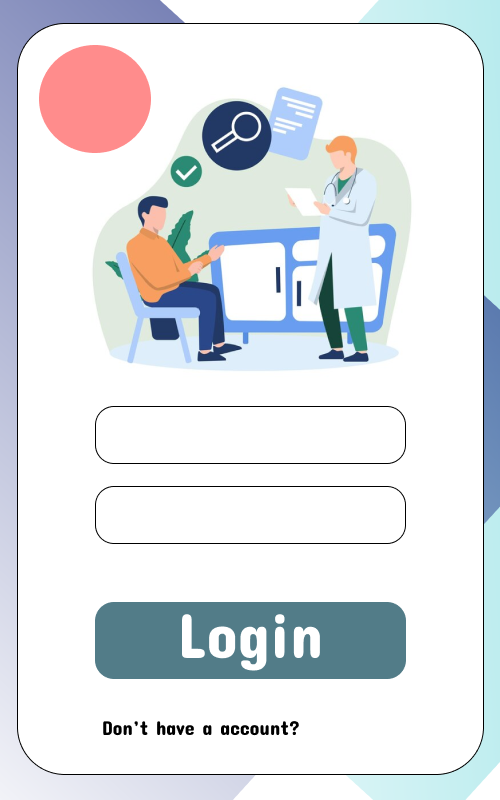
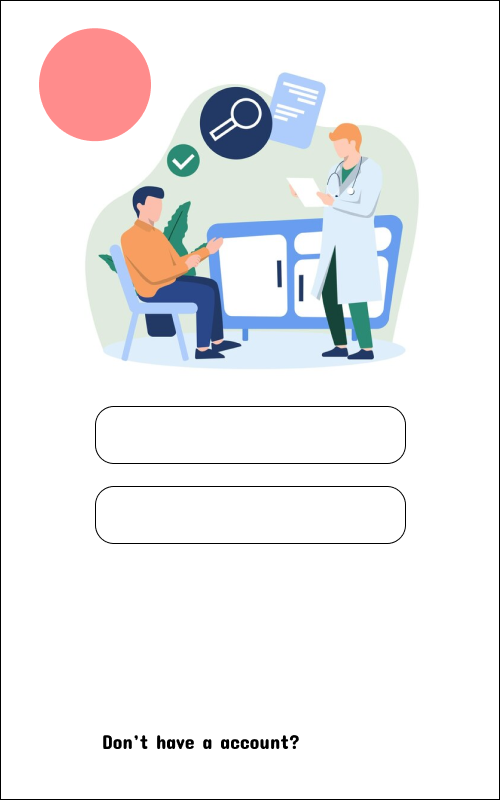
modified GUI

diff --git a/sistem-kessehatan-digital/src/main/java/com/neverlands/siskesdig/programs/Graphic/LoginForm.java b/sistem-kessehatan-digital/src/main/java/com/neverlands/siskesdig/programs/Graphic/LoginForm.java
@@ -38,14 +38,32 @@ public class LoginForm extends javax.swing.JFrame {
     // <editor-fold defaultstate="collapsed" desc="Generated Code">//GEN-BEGIN:initComponents
     private void initComponents() {
 
+        jPanel1 = new javax.swing.JPanel();
         inputUsername = new javax.swing.JTextField();
         inputPassword = new javax.swing.JTextField();
         Login = new javax.swing.JButton();
         jLabel1 = new javax.swing.JLabel();
         jLabel2 = new javax.swing.JLabel();
+        jLabel3 = new javax.swing.JLabel();
 
+        setResizable(false);
         setDefaultCloseOperation(javax.swing.WindowConstants.EXIT_ON_CLOSE);
         getContentPane().setLayout(new org.netbeans.lib.awtextra.AbsoluteLayout());
+
+        jPanel1.setBackground(new java.awt.Color(153, 153, 153, 40));
+
+        javax.swing.GroupLayout jPanel1Layout = new javax.swing.GroupLayout(jPanel1);
+        jPanel1.setLayout(jPanel1Layout);
+        jPanel1Layout.setHorizontalGroup(
+            jPanel1Layout.createParallelGroup(javax.swing.GroupLayout.Alignment.LEADING)
+            .addGap(0, 500, Short.MAX_VALUE)
+        );
+        jPanel1Layout.setVerticalGroup(
+            jPanel1Layout.createParallelGroup(javax.swing.GroupLayout.Alignment.LEADING)
+            .addGap(0, 800, Short.MAX_VALUE)
+        );
+
+        getContentPane().add(jPanel1, new org.netbeans.lib.awtextra.AbsoluteConstraints(0, 0, 500, 800));
 
         inputUsername.setBackground(new java.awt.Color(255, 255, 255));
         inputUsername.setFont(new java.awt.Font("Concert One", 0, 35)); // NOI18N
@@ -69,7 +87,7 @@ public class LoginForm extends javax.swing.JFrame {
                 inputUsernameActionPerformed(evt);
             }
         });
-        getContentPane().add(inputUsername, new org.netbeans.lib.awtextra.AbsoluteConstraints(110, 410, 280, 50));
+        getContentPane().add(inputUsername, new org.netbeans.lib.awtextra.AbsoluteConstraints(120, 410, 270, 40));
 
         inputPassword.setBackground(new java.awt.Color(255, 255, 255));
         inputPassword.setFont(new java.awt.Font("Concert One", 0, 35)); // NOI18N
@@ -96,6 +114,7 @@ public class LoginForm extends javax.swing.JFrame {
         Login.setBackground(new java.awt.Color(255, 255, 255));
         Login.setIcon(new javax.swing.ImageIcon(getClass().getResource("/com/neverlands/siskesdig/bin/Loginbttn.png"))); // NOI18N
         Login.setBorder(null);
+        Login.setBorderPainted(false);
         Login.addActionListener(new java.awt.event.ActionListener() {
             public void actionPerformed(java.awt.event.ActionEvent evt) {
                 try {
@@ -106,7 +125,7 @@ public class LoginForm extends javax.swing.JFrame {
                 }
             }
         });
-        getContentPane().add(Login, new org.netbeans.lib.awtextra.AbsoluteConstraints(100, 610, 300, 60));
+        getContentPane().add(Login, new org.netbeans.lib.awtextra.AbsoluteConstraints(110, 600, 280, 60));
 
         jLabel1.setIcon(new javax.swing.ImageIcon(getClass().getResource("/com/neverlands/siskesdig/bin/create_one.png"))); // NOI18N
         jLabel1.addMouseListener(new java.awt.event.MouseAdapter() {
@@ -114,11 +133,14 @@ public class LoginForm extends javax.swing.JFrame {
                 jLabel1MouseClicked(evt);
             }
         });
-        getContentPane().add(jLabel1, new org.netbeans.lib.awtextra.AbsoluteConstraints(310, 720, -1, -1));
+        getContentPane().add(jLabel1, new org.netbeans.lib.awtextra.AbsoluteConstraints(310, 710, -1, 60));
 
         jLabel2.setIcon(new javax.swing.ImageIcon(getClass().getResource("/com/neverlands/siskesdig/bin/Login.png"))); // NOI18N
         jLabel2.setText("jLabel2");
         getContentPane().add(jLabel2, new org.netbeans.lib.awtextra.AbsoluteConstraints(0, 0, 500, 800));
+
+        jLabel3.setText("jLabel3");
+        getContentPane().add(jLabel3, new org.netbeans.lib.awtextra.AbsoluteConstraints(0, 170, -1, -1));
 
         pack();
         setLocationRelativeTo(null);
@@ -231,5 +253,7 @@ public class LoginForm extends javax.swing.JFrame {
     private javax.swing.JTextField inputUsername;
     private javax.swing.JLabel jLabel1;
     private javax.swing.JLabel jLabel2;
+    private javax.swing.JLabel jLabel3;
+    private javax.swing.JPanel jPanel1;
     // End of variables declaration//GEN-END:variables
 }

diff --git a/sistem-kessehatan-digital/src/main/java/com/neverlands/siskesdig/programs/controller/LoadingForm.java b/sistem-kessehatan-digital/src/main/java/com/neverlands/siskesdig/programs/controller/LoadingForm.java
@@ -1,0 +1,99 @@
+/*
+ * Click nbfs://nbhost/SystemFileSystem/Templates/Licenses/license-default.txt to change this license
+ * Click nbfs://nbhost/SystemFileSystem/Templates/GUIForms/JFrame.java to edit this template
+ */
+package com.neverlands.siskesdig.programs.controller;
+
+/**
+ *
+ * @author Zenith
+ */
+public class LoadingForm extends javax.swing.JFrame {
+
+    /**
+     * Creates new form LoadingForm
+     */
+    public LoadingForm() {
+        initComponents();
+    }
+
+    /**
+     * This method is called from within the constructor to initialize the form.
+     * WARNING: Do NOT modify this code. The content of this method is always
+     * regenerated by the Form Editor.
+     */
+    @SuppressWarnings("unchecked")
+    // <editor-fold defaultstate="collapsed" desc="Generated Code">//GEN-BEGIN:initComponents
+    private void initComponents() {
+
+        jPanel1 = new javax.swing.JPanel();
+
+        setDefaultCloseOperation(javax.swing.WindowConstants.EXIT_ON_CLOSE);
+        setPreferredSize(new java.awt.Dimension(500, 800));
+
+        jPanel1.setBackground(new java.awt.Color(204, 204, 204, 50));
+
+        javax.swing.GroupLayout jPanel1Layout = new javax.swing.GroupLayout(jPanel1);
+        jPanel1.setLayout(jPanel1Layout);
+        jPanel1Layout.setHorizontalGroup(
+            jPanel1Layout.createParallelGroup(javax.swing.GroupLayout.Alignment.LEADING)
+            .addGap(0, 500, Short.MAX_VALUE)
+        );
+        jPanel1Layout.setVerticalGroup(
+            jPanel1Layout.createParallelGroup(javax.swing.GroupLayout.Alignment.LEADING)
+            .addGap(0, 800, Short.MAX_VALUE)
+        );
+
+        javax.swing.GroupLayout layout = new javax.swing.GroupLayout(getContentPane());
+        getContentPane().setLayout(layout);
+        layout.setHorizontalGroup(
+            layout.createParallelGroup(javax.swing.GroupLayout.Alignment.LEADING)
+            .addComponent(jPanel1, javax.swing.GroupLayout.DEFAULT_SIZE, javax.swing.GroupLayout.DEFAULT_SIZE, Short.MAX_VALUE)
+        );
+        layout.setVerticalGroup(
+            layout.createParallelGroup(javax.swing.GroupLayout.Alignment.LEADING)
+            .addComponent(jPanel1, javax.swing.GroupLayout.DEFAULT_SIZE, javax.swing.GroupLayout.DEFAULT_SIZE, Short.MAX_VALUE)
+        );
+
+        pack();
+    }// </editor-fold>//GEN-END:initComponents
+
+    /**
+     * @param args the command line arguments
+     */
+    public static void main(String args[]) {
+        /* Set the Nimbus look and feel */
+        //<editor-fold defaultstate="collapsed" desc=" Look and feel setting code (optional) ">
+        /* If Nimbus (introduced in Java SE 6) is not available, stay with the default look and feel.
+         * For details see http://download.oracle.com/javase/tutorial/uiswing/lookandfeel/plaf.html 
+         */
+        try {
+            for (javax.swing.UIManager.LookAndFeelInfo info : javax.swing.UIManager.getInstalledLookAndFeels()) {
+                if ("Nimbus".equals(info.getName())) {
+                    javax.swing.UIManager.setLookAndFeel(info.getClassName());
+                    break;
+                }
+            }
+        } catch (ClassNotFoundException ex) {
+            java.util.logging.Logger.getLogger(LoadingForm.class.getName()).log(java.util.logging.Level.SEVERE, null, ex);
+        } catch (InstantiationException ex) {
+            java.util.logging.Logger.getLogger(LoadingForm.class.getName()).log(java.util.logging.Level.SEVERE, null, ex);
+        } catch (IllegalAccessException ex) {
+            java.util.logging.Logger.getLogger(LoadingForm.class.getName()).log(java.util.logging.Level.SEVERE, null, ex);
+        } catch (javax.swing.UnsupportedLookAndFeelException ex) {
+            java.util.logging.Logger.getLogger(LoadingForm.class.getName()).log(java.util.logging.Level.SEVERE, null, ex);
+        }
+        //</editor-fold>
+
+        /* Create and display the form */
+        java.awt.EventQueue.invokeLater(new Runnable() {
+            public void run() {
+                new LoadingForm().setVisible(true);
+            }
+        });
+    }
+
+    // Variables declaration - do not modify//GEN-BEGIN:variables
+    private javax.swing.JPanel jPanel1;
+    // End of variables declaration//GEN-END:variables
+}

diff --git a/sistem-kessehatan-digital/src/main/java/com/neverlands/siskesdig/programs/Graphic/RegisterForm.java b/sistem-kessehatan-digital/src/main/java/com/neverlands/siskesdig/programs/Graphic/RegisterForm.java
@@ -91,6 +91,7 @@ public class RegisterForm extends javax.swing.JFrame {
         getContentPane().add(inputPassword, new org.netbeans.lib.awtextra.AbsoluteConstraints(110, 490, 280, 50));
 
         Login.setBackground(new java.awt.Color(255, 255, 255));
+        Login.setForeground(new java.awt.Color(255, 255, 255));
         Login.setIcon(new javax.swing.ImageIcon(getClass().getResource("/com/neverlands/siskesdig/bin/Registerbttn.png"))); // NOI18N
         Login.setBorder(null);
         Login.addActionListener(new java.awt.event.ActionListener() {
@@ -103,7 +104,7 @@ public class RegisterForm extends javax.swing.JFrame {
                 }
             }
         });
-        getContentPane().add(Login, new org.netbeans.lib.awtextra.AbsoluteConstraints(100, 610, 300, 60));
+        getContentPane().add(Login, new org.netbeans.lib.awtextra.AbsoluteConstraints(91, 600, 310, 80));
 
         jLabel1.setIcon(new javax.swing.ImageIcon(getClass().getResource("/com/neverlands/siskesdig/bin/logingreen.png"))); // NOI18N
         jLabel1.addMouseListener(new java.awt.event.MouseAdapter() {

diff --git a/sistem-kessehatan-digital/src/main/java/com/neverlands/siskesdig/programs/Graphic/MainmenuForm.java b/sistem-kessehatan-digital/src/main/java/com/neverlands/siskesdig/programs/Graphic/MainmenuForm.java
@@ -36,6 +36,7 @@ public class MainmenuForm extends javax.swing.JFrame {
         jLabel7 = new javax.swing.JLabel();
         jLabel1 = new javax.swing.JLabel();
 
+        setResizable(false);
         setDefaultCloseOperation(javax.swing.WindowConstants.EXIT_ON_CLOSE);
         getContentPane().setLayout(new org.netbeans.lib.awtextra.AbsoluteLayout());
 
